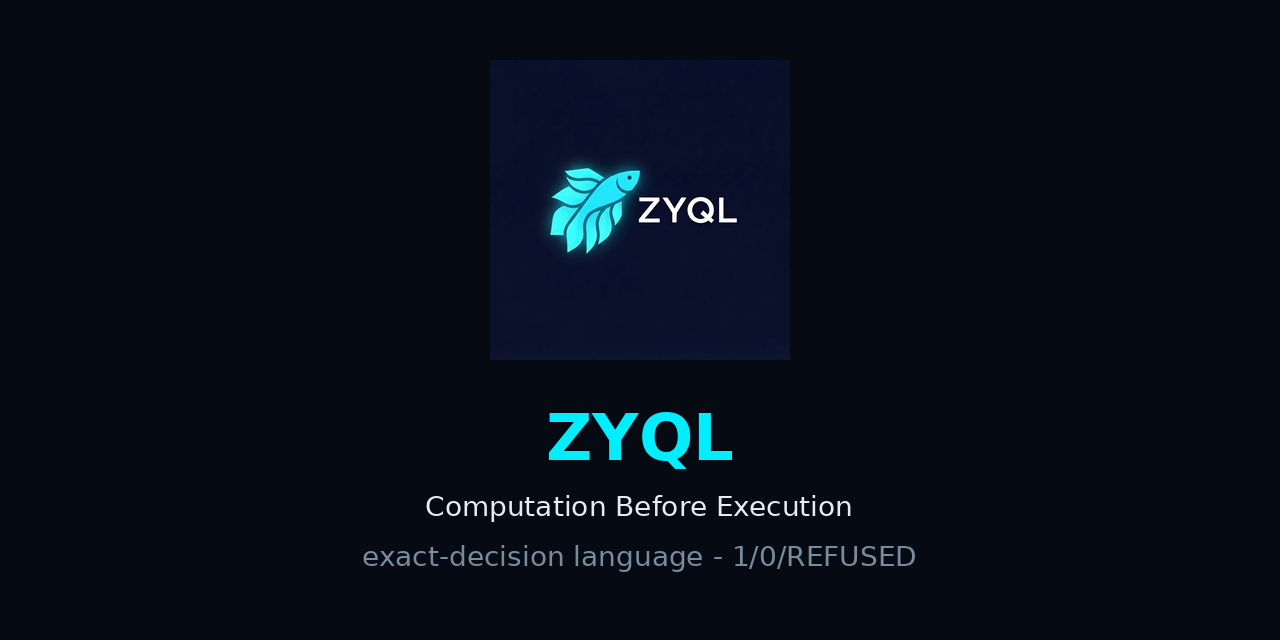
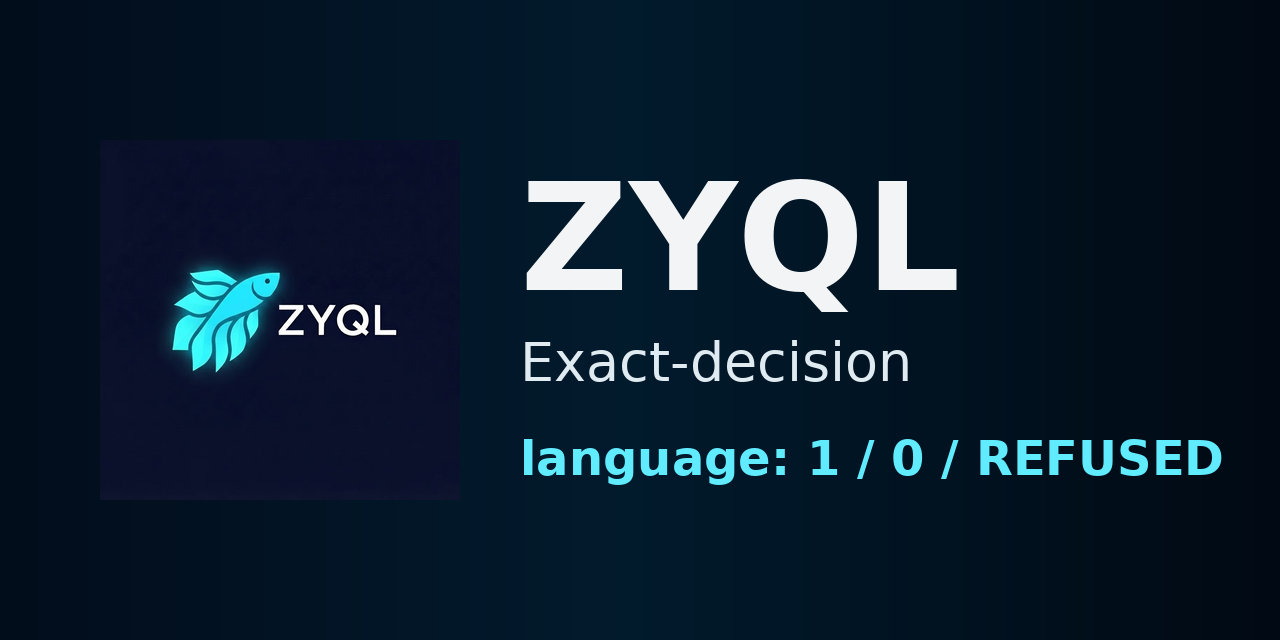
branding final: SVG canonico como hero do README + social preview consistente (paleta e slogan 1/0/REFUSED) — etapa final da auditoria, provimento do executivo

diff --git a/README.md b/README.md
@@ -1,4 +1,5 @@
-<p align="center"><img src="assets/brand/logo_zyql_betta_v5_ciano.png" width="480" alt="ZYQL — emblema oficial: o peixe betta ascensional em azul ciano vivo fosforescente, na diagonal, antes do wordmark ZYQL"></p>
+<p align="center"><img src="assets/brand/zyql_quantum_banner.svg" width="820" alt="ZYQL — Exact-decision language: 1 / 0 / REFUSED"></p>
+<p align="center"><img src="assets/brand/logo_zyql_betta_v5_ciano.png" width="200" alt="ZYQL — emblema oficial: o peixe betta ascensional em azul ciano vivo"></p>
 
 <p align="center">
   <a href="https://github.com/SerenaSolutions/zephirum/actions/workflows/ci.yml"><img src="https://github.com/SerenaSolutions/zephirum/actions/workflows/ci.yml/badge.svg" alt="CI"></a>
